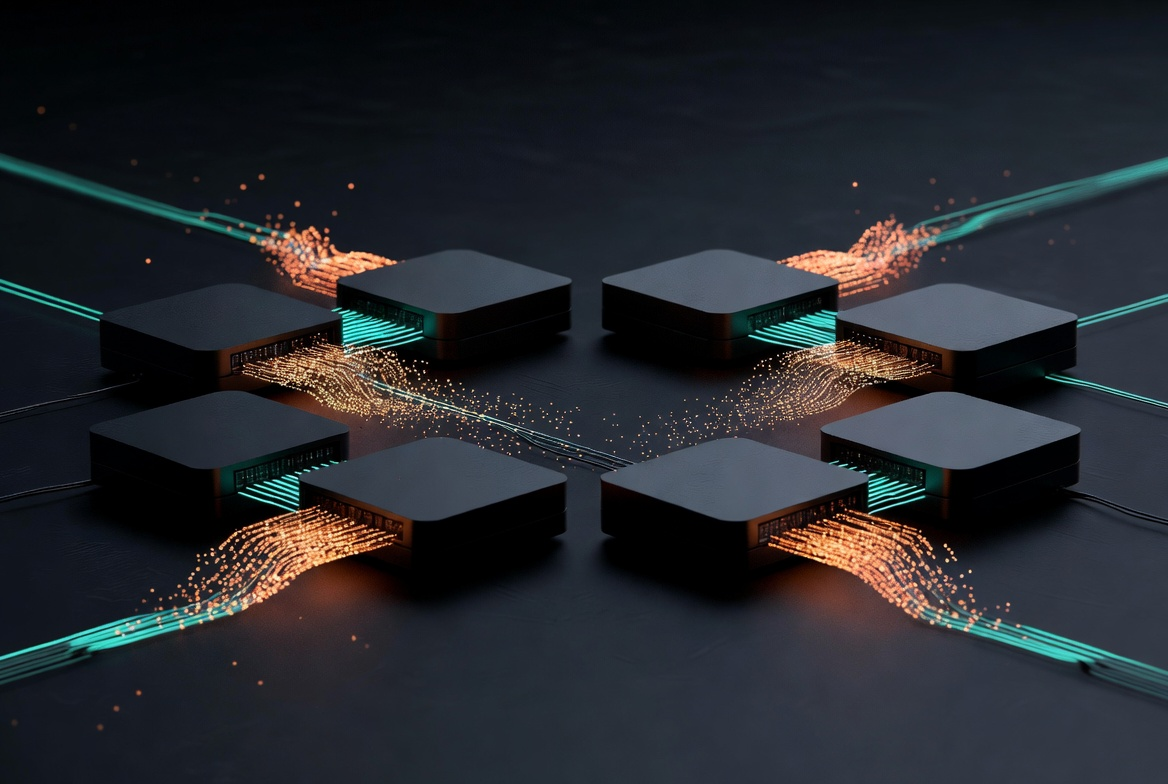
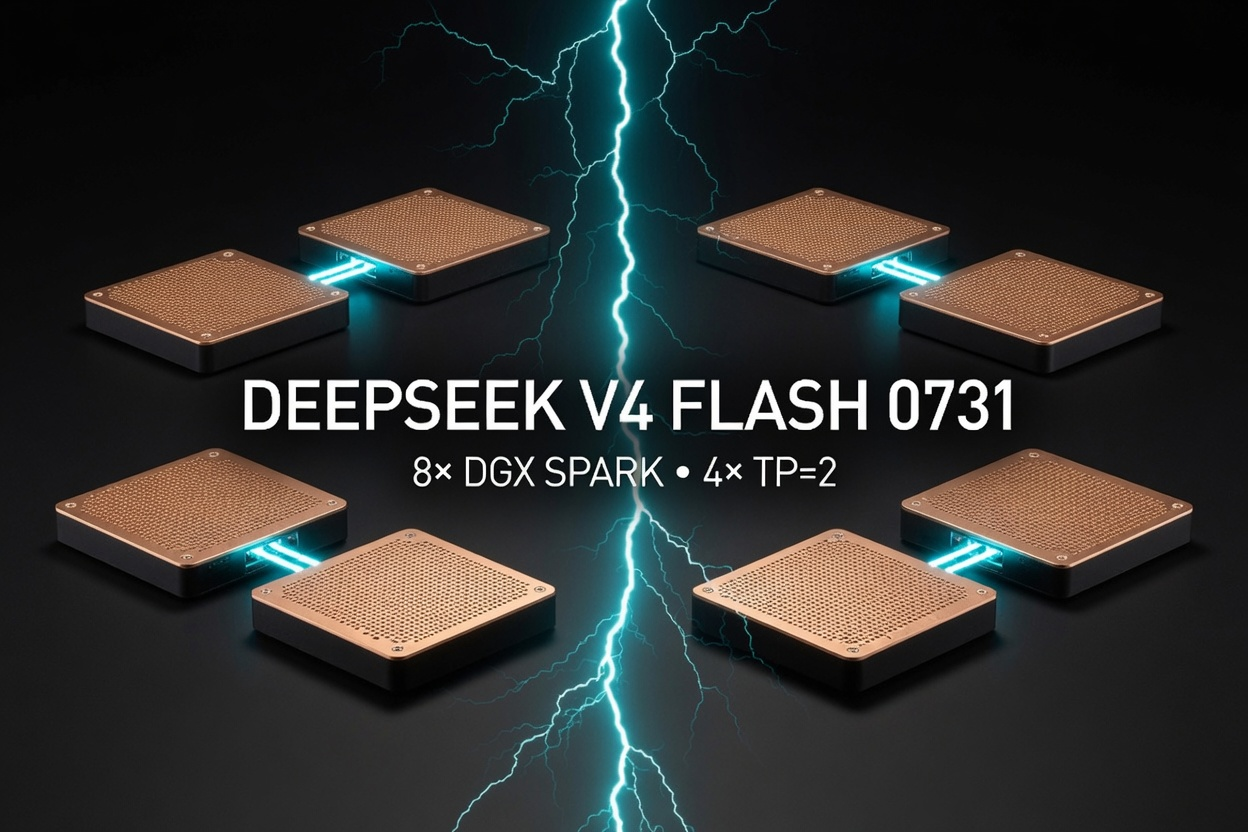
Upgrade DGX Spark cluster hero graphic

diff --git a/media/README.md b/media/README.md
@@ -8,9 +8,9 @@
 | Generator | Grok image generation through the Grok chat interface |
 | Attribution | [Created with Grok](https://x.ai/legal/brand-guidelines) |
 | Generated | 2026-08-01 UTC |
-| Dimensions | 1,168 x 784 pixels |
+| Dimensions | 1,248 x 832 pixels |
 | Format | JPEG, sRGB |
[2 lines of base64/hex data omitted]
 | Relationship | Original generated JPEG bytes; not resized, cropped, or recompressed |
 | Embedded provenance | C2PA manifest markers identify `Grok Imagine`, `trainedAlgorithmicMedia`, and `SpaceXAI`; the original metadata is preserved byte-for-byte |
 
@@ -20,33 +20,92 @@ anchors the exact bytes that are in this repository.
 A dedicated `c2patool` verifier was not available locally, so this record does
 not claim independent cryptographic validation of the embedded signature.
 
-## Accepted prompt
+## Accepted generation path
+
+The final image was produced through a style-and-layout prompt followed by one
+focused form-factor repair. The repair used the preceding generated image as a
+composition reference, so the text alone is not presented as a deterministic
+reproduction recipe.
+
+### Style and layout prompt
 
 ```text
-Create a wide 16:9 conceptual technology illustration. Show exactly eight
-compact matte-black square compute nodes, arranged as four clearly separated
-two-node pairs on a dark graphite surface. Connect each pair with one glowing
-teal line. Warm amber data particles flow from all four pairs toward the
-center. Premium cinematic product visualization, clean precise industrial
-geometry, high contrast, dramatic studio lighting, and safe margins. No
-people, no text, no letters, no numerals, no logos, no labels, no watermarks,
-no extra devices, no server rack, and no tangled cables.
+Use the image you just generated only as a rough composition reference. Create
+a completely new, much more energetic wide 16:9 repository hero graphic for a
+real eight-system cluster.
+
+Show exactly eight recognizable NVIDIA DGX Spark desktop systems, not generic
+black boxes: compact low square chassis, black front panels, copper-gold
+perforated top surfaces, and restrained authentic product-style "DGX SPARK"
+identification on the hardware. Arrange them as exactly four clearly separated
+two-system pairs. Each pair is connected by one bright cyan data link, and all
+four pairs converge toward a central burst of electric cyan and deep-blue
+light.
+
+Make the central visual a dramatic lightning-flash / deep-ocean energy surge—
+sharp, fast, technical, and unmistakably "Flash"—with a subtle abstract
+deep-sea wave silhouette in the energy, but do not copy or invent a DeepSeek
+corporate logo. Add only this exact clean headline: "DEEPSEEK V4 FLASH 0731".
+Add only this exact smaller line: "8× DGX SPARK • 4× TP=2". Use crisp modern
+geometric typography with safe margins.
+
+Premium cinematic product visualization, aggressive high contrast,
+graphite-black background, cyan/teal energy, NVIDIA-green accent light, copper
+hardware highlights, clean industrial precision, dramatic depth, and enough
+negative space to remain readable as a GitHub README hero.
+
+Hard constraints: exactly eight devices, exactly four pairs, no people, no room
+or location detail, no rack, no extra devices, no tangled cables, no performance
+numbers, no tokens-per-second claims, no "record" claim, no personal
+identifiers, no email, no usernames, no extra words, no misspelled text, and no
+watermark.
 ```
 
-The generator returned a 1,168 x 784 image rather than the requested 16:9
+### Accepted form-factor repair prompt
+
+```text
+Use the most recent generated image as a composition and lighting reference
+only. Correct one specific failure: every computer is the wrong form factor.
+
+Replace all eight tall tower/server shapes with exactly eight low-profile
+NVIDIA DGX Spark desktop systems sitting flat on the surface. Each DGX Spark
+must be a compact square slab approximately three times wider than it is tall,
+with a black front edge, dark sidewalls, and a copper-gold perforated top panel—
+the real compact desktop DGX Spark silhouette. Show no rear panels, no rack
+faces, no tower cases, and absolutely no loose or bundled cables.
+
+Preserve the strong central cyan lightning, graphite background, exact
+eight-device count, exact four separated two-device pairs, cyan pair links,
+cinematic copper/cyan color palette, safe margins, and the clean centered
+typography exactly as written:
+"DEEPSEEK V4 FLASH 0731"
+"8× DGX SPARK • 4× TP=2"
+
+No people, no room detail, no extra devices, no performance numbers, no record
+claim, no personal identifiers, no extra wording, no misspelled text, and no
+watermark.
+```
+
+The generator returned a 1,248 x 832 image rather than the requested 16:9
 canvas. The result was accepted because the repository does not make an aspect
 ratio claim and the full image works as the README hero without cropping.
 
 ## Acceptance record
 
-- Exactly eight discrete compute nodes: pass.
-- No extra node, person, room detail, text, numeral, label, logo, or watermark:
+- Exactly eight low-profile systems in four visible two-system groups: pass.
+- Exact two-line title and configuration label, with no additional wording:
   pass.
-- Teal and amber paired-data visual language: pass.
+- Central cyan flash and one visible cyan link within each pair: pass.
+- No extra device, person, room detail, rack, loose cable, performance figure,
+  record claim, personal identifier, or watermark: pass.
+- Low-profile square silhouette, black sidewalls, and copper perforated tops:
+  pass as stylized DGX Spark identification, not as a photographic product
+  replica.
 - Suitable as conceptual repository artwork: pass.
 - Suitable as physical topology or benchmark evidence: no; explicitly out of
   scope.
 
-The direct Imagine-page attempts remained unresolved placeholders and were not
-published. The accepted asset was generated through Grok chat, downloaded as
-the original response bytes, and visually reviewed before inclusion.
+An intermediate revision with tall tower cases and cable bundles was rejected
+and is not included in the public tree. The accepted asset was generated through
+Grok chat, downloaded as the original response bytes, and visually reviewed
+before inclusion.

diff --git a/docs/VERIFICATION-REPORT.md b/docs/VERIFICATION-REPORT.md
@@ -1,6 +1,6 @@
 # Publication verification report
 
-Verification timestamp: `2026-08-01T03:35:33Z`
+Verification timestamp: `2026-08-01T03:51:18Z`
 
 ## Result
 
@@ -22,7 +22,7 @@ report.
 | JSON parse | Pass | All public JSON documents parsed successfully |
 | Local links | Pass | All repository-relative Markdown targets resolved |
 | Symbolic links | Pass | None present in the publication tree |
-| Graphic | Pass | Original 1,168 x 784 Grok JPEG reviewed; exactly eight nodes; no text, logos, people, or environment detail |
+| Graphic | Pass | Original 1,248 x 832 Grok JPEG reviewed; exactly eight low-profile systems in four pairs; exact two-line title; no extra device, person, room detail, rack, loose cable, performance figure, record claim, personal identifier, or watermark |
 | Graphic provenance | Pass with boundary | Original bytes and embedded C2PA markers preserved; dedicated signature validation not run because `c2patool` was unavailable |
 | External links | Pass with warning | Eight references returned HTTP 200 through the system client; the xAI brand-guideline page rendered through a browser but returned HTTP 403 to the unauthenticated command-line probe |
 | PDF gates | Not applicable | This repository contains no PDFs |

diff --git a/README.md b/README.md
@@ -1,9 +1,10 @@
 # DeepSeek V4 Flash 0731 on Eight DGX Sparks
 
-![Conceptual view of eight compute nodes operating as four paired replicas](media/deepseek-v4-flash-0731-dgx-spark-cluster-hero.jpg)
+![Stylized hero view of eight DGX Spark systems grouped as four tensor-parallel pairs](media/deepseek-v4-flash-0731-dgx-spark-cluster-hero.jpg)
 
 *[Created with Grok](https://x.ai/legal/brand-guidelines). Conceptual artwork;
-this is not a photograph or a topology diagram of the live cluster.*
+the hardware is stylized, and this is not a photograph or topology diagram of
+the live cluster.*
 
 I loaded `deepseek-ai/DeepSeek-V4-Flash-0731` across all eight of my NVIDIA
 DGX Spark systems. One replica needs two Sparks, so I split the cluster into
